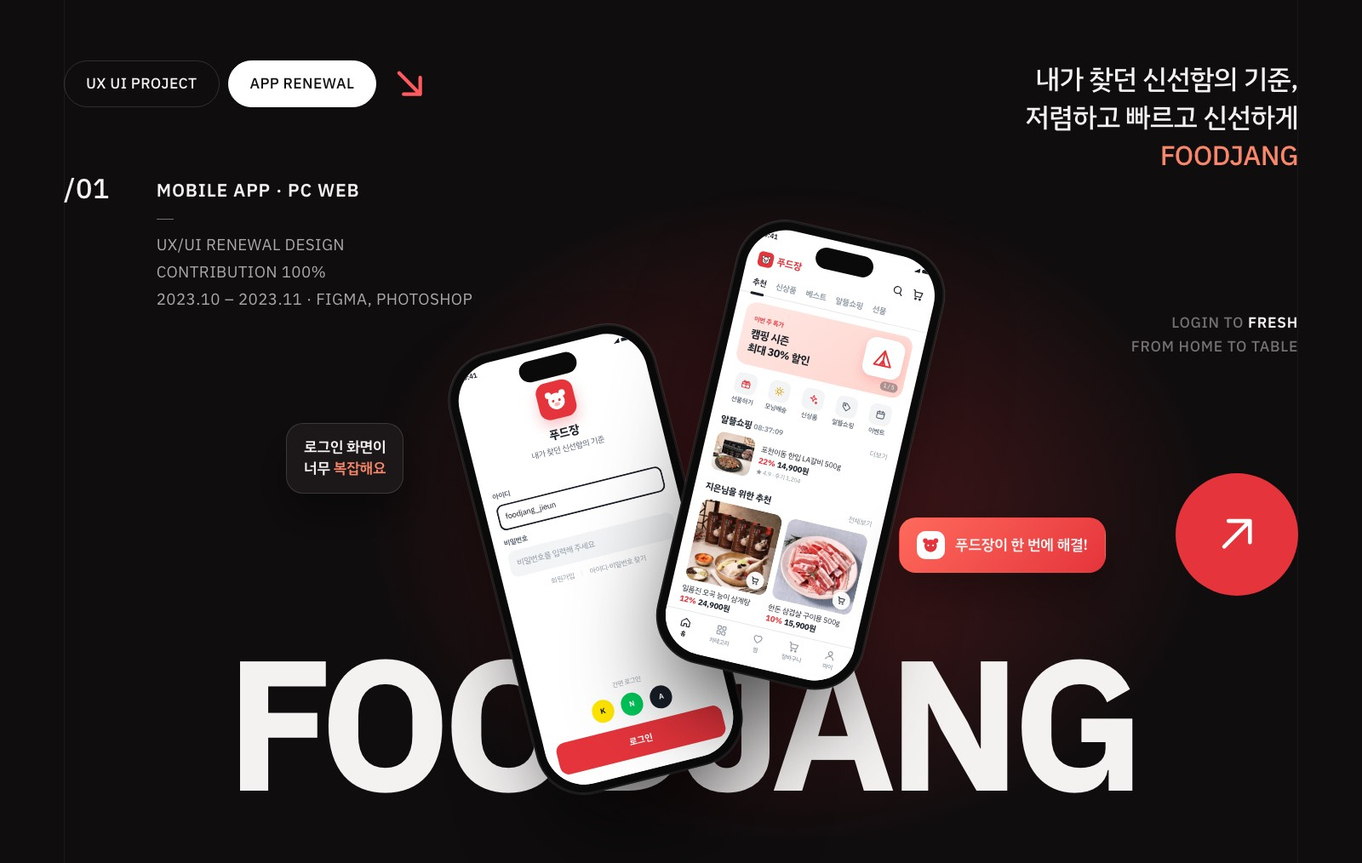
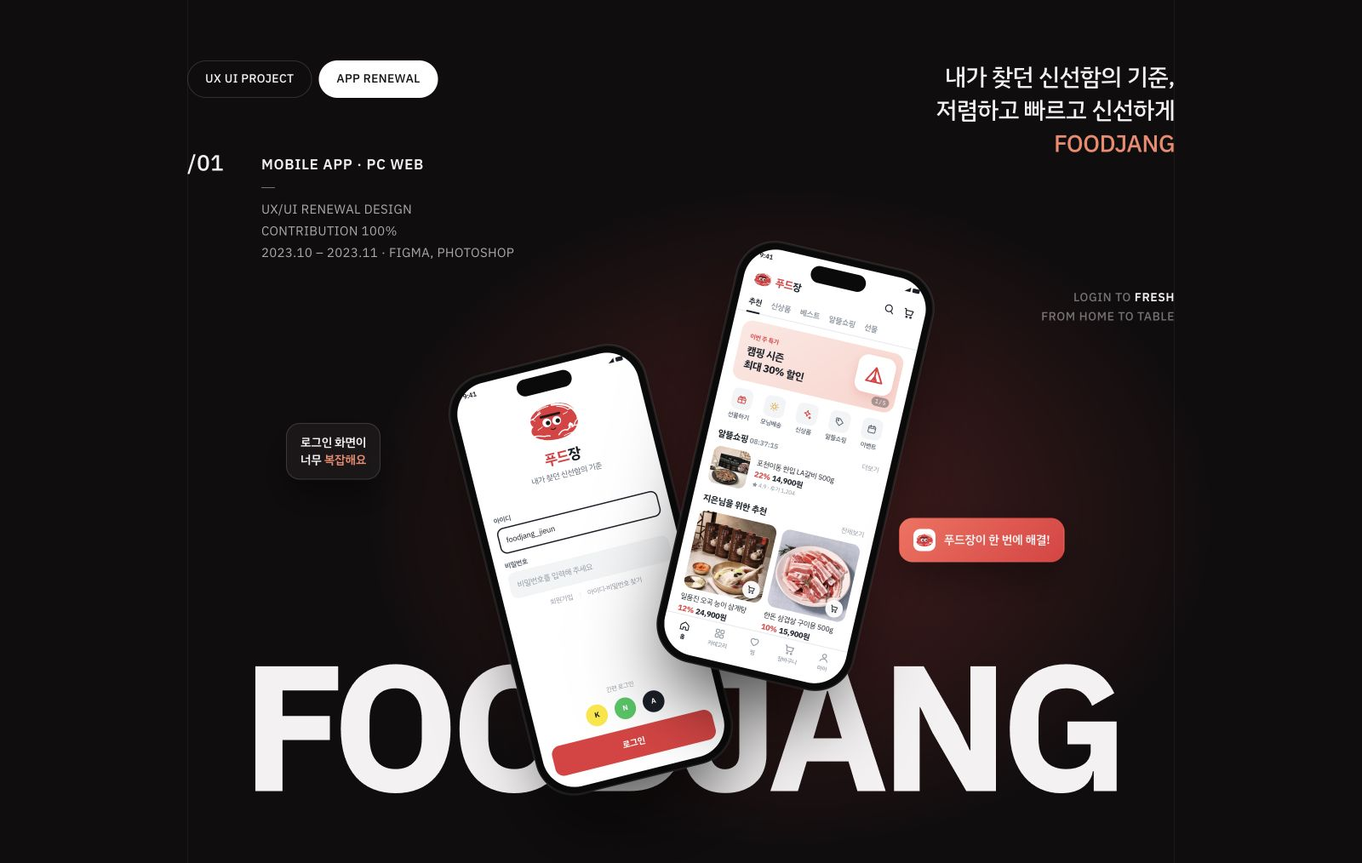
Update Foodjang case study, cover, and consistent spacing

diff --git a/works/foodjang/index.html b/works/foodjang/index.html
@@ -1,6 +1,4 @@
 <!doctype html><html lang="ko"><head><meta charset="utf-8"><meta name=viewport content="width=device-width,initial-scale=1,viewport-fit=cover"><style>:root{color-scheme:light;box-sizing:border-box;padding-top:env(safe-area-inset-top,0px);padding-bottom:env(safe-area-inset-bottom,0px)}html{scroll-padding-top:env(safe-area-inset-top,0px)}body{margin:0;padding:0;font:14px -apple-system,BlinkMacSystemFont,sans-serif;background:#fff;color:#000}img{max-width:100%}[hidden]:not([hidden=until-found i]){display:none!important}</style><title>FOODJANG 앱 리뉴얼 — 유미경</title></head><body>
-
-<meta name="claude:viewport-fit-sides" content="cover">
 <link rel="preconnect" href="https://fonts.googleapis.com">
 <link rel="preconnect" href="https://fonts.gstatic.com" crossorigin>
 <link rel="stylesheet" href="https://fonts.googleapis.com/css2?family=IBM+Plex+Sans+KR:wght@400;500;600;700&display=swap">
@@ -13,6 +11,7 @@
   --tx:#F5F2F2; --tx-2:rgba(245,242,242,.68); --tx-3:rgba(245,242,242,.44);
   --brand:#A3121A; --red:#E5343C; --red-2:#FF5A5F; --pink:#F4A6A0; --lpink:#FBE3E0; --yellow:#F7C548; --coral:#F7866A;
   --ink:#191F28; --ink-2:#4E5968; --ink-3:#8B95A1; --line:#E5E8EB; --fill:#F2F4F6; --paper:#FFFFFF; --rtint:#FFF0EF;
+  --section-space:clamp(96px,12vw,170px); --content-space:clamp(40px,5vw,56px); --card-gap:24px; --card-padding:clamp(24px,2.5vw,32px);
   --font:'IBM Plex Sans KR','Apple SD Gothic Neo','Malgun Gothic',sans-serif;
   color-scheme:dark;
 }
@@ -22,7 +21,7 @@ body{margin:0;background:var(--bg);color:var(--tx);font-family:var(--font);font-
 img,svg{max-width:100%}
 .wrap{max-width:1200px;margin:0 auto;padding-left:max(20px,env(safe-area-inset-left,0px));padding-right:max(20px,env(safe-area-inset-right,0px))}
 section{position:relative}
-.band{padding-block:clamp(96px,12vw,170px)}
+.band{padding-block:var(--section-space)}
 .eyebrow{display:inline-flex;align-items:center;gap:8px;font-weight:600;font-size:13px;letter-spacing:.14em;text-transform:uppercase;color:var(--coral)}
 .eyebrow:before{content:'';width:6px;height:6px;border-radius:50%;background:var(--red-2);box-shadow:0 0 12px var(--red-2)}
 .ttl{font-weight:700;font-size:clamp(28px,4.2vw,48px);line-height:1.3;letter-spacing:-.035em;margin:16px 0 18px;text-wrap:balance}
@@ -45,9 +44,9 @@ section{position:relative}
 .nav b{font-size:1.0625em;font-weight:700;white-space:nowrap}
 .nav .ic{display:flex;gap:.9em}
 .nav svg,.ico-s{width:1.5em;height:1.5em;stroke:var(--ink);fill:none;stroke-width:1.9;stroke-linecap:round;stroke-linejoin:round;flex:none}
-.logo{display:flex;align-items:center;gap:.4em;font-weight:700;font-size:1.125em;color:var(--red);white-space:nowrap}
-.logo .m{width:1.6em;height:1.6em;border-radius:.45em;background:var(--red);display:grid;place-items:center}
-.logo .m svg{width:1.1em;height:1.1em}
+.logo{display:flex;align-items:center;gap:.35em;font-weight:700;font-size:1.1875em;color:var(--ink);white-space:nowrap;letter-spacing:-.04em}
+.logo b{color:var(--red);font-weight:700}
+.logo .mk{width:1.9em;height:1.4em;flex:none}
 .body{flex:1;overflow:hidden;padding:0 1.25em;min-height:0}
 .h1{font-size:1.5em;font-weight:700;line-height:1.38;letter-spacing:-.035em;margin:.5em 0 .4em}
 .h1 em{font-style:normal;color:var(--red)}
@@ -103,8 +102,10 @@ section{position:relative}
 .links{display:flex;justify-content:center;gap:1em;font-size:.8125em;color:var(--ink-3);margin-top:1em;white-space:nowrap}
 .sns{display:flex;justify-content:center;gap:.9em;margin-top:.7em}
 .sns i{width:3em;height:3em;border-radius:50%;display:grid;place-items:center;font-style:normal;font-weight:700;font-size:.875em}
-.mascot{width:4.4em;height:4.4em;border-radius:1.25em;background:var(--red);display:grid;place-items:center;margin:1.6em auto .8em;box-shadow:0 .8em 1.6em rgba(229,52,60,.28)}
-.mascot svg{width:3em;height:3em}
+.mascot{display:flex;justify-content:center;margin:1.8em auto .7em}
+.mascot svg{width:6.6em;height:4.9em}
+.lgw{font-size:1.75em;font-weight:700;letter-spacing:-.05em;color:var(--ink)}
+.lgw b{color:var(--red);font-weight:700}
 .steps3{display:flex;flex-direction:column;gap:.15em;margin-top:1em}
 .steps3>div{display:flex;gap:.8em;align-items:center;padding:.6em 0}
 .steps3 i{width:1.9em;height:1.9em;border-radius:50%;background:var(--rtint);color:var(--red);font-style:normal;font-weight:700;font-size:.8125em;display:grid;place-items:center;flex:none}
@@ -146,7 +147,6 @@ section{position:relative}
 .pills{display:flex;align-items:center;gap:8px}
 .pills span{height:44px;padding:0 20px;border-radius:999px;border:1px solid var(--stroke-2);display:inline-flex;align-items:center;font-size:14px;font-weight:500;letter-spacing:.02em;white-space:nowrap}
 .pills span.w{background:#fff;color:#111;border-color:#fff}
-.pills svg{width:34px;height:34px;stroke:var(--red-2);fill:none;stroke-width:2.4;stroke-linecap:round;stroke-linejoin:round;margin-left:6px}
 .hmeta{display:grid;grid-template-columns:auto 1fr;gap:4px 44px;margin-top:64px;font-size:15px;color:var(--tx-2);letter-spacing:.02em}
 .hmeta .n{font-size:26px;font-weight:500;color:var(--tx);line-height:1}
 .hmeta b{font-weight:600;color:var(--tx);display:block;font-size:17px;letter-spacing:.04em}
@@ -166,39 +166,39 @@ section{position:relative}
 .bub em{font-style:normal;color:var(--coral)}
 .bub.sol{background:linear-gradient(135deg,#FF6A5C,#E5343C);border-color:transparent;display:flex;align-items:center;gap:10px}
 .bub.sol i{width:26px;height:26px;border-radius:8px;background:#fff;display:grid;place-items:center}
-.bub.sol i svg{width:18px;height:18px}
+.bub.sol i svg{width:22px;height:16px}
 .b1{left:21%;top:49%}.b4{left:66%;top:60%}
 
 /* ================= OVERVIEW ================= */
 .ov{background:linear-gradient(180deg,var(--bg),var(--bg-2))}
-.ov .q{display:flex;justify-content:center;gap:12px;flex-wrap:wrap;margin-top:56px}
+.ov .q{display:flex;justify-content:center;gap:12px;flex-wrap:wrap;margin-top:var(--content-space)}
 .ov .q span{font-size:14px;font-weight:600;padding:10px 16px;border-radius:999px;background:var(--card);border:1px solid var(--stroke);color:var(--tx-2)}
 .ov .q span em{font-style:normal;color:var(--coral)}
 
 /* ================= RESEARCH ================= */
-.rs-grid{display:grid;grid-template-columns:repeat(3,minmax(0,1fr)) minmax(0,1.25fr);gap:16px;margin-top:56px}
-.tg{padding:32px 28px;display:flex;flex-direction:column;gap:16px;min-width:0}
+.rs-grid{display:grid;grid-template-columns:repeat(3,minmax(0,1fr)) minmax(0,1.25fr);gap:var(--card-gap);margin-top:var(--content-space)}
+.tg{padding:var(--card-padding);display:flex;flex-direction:column;gap:20px;min-width:0}
 .tg .n{font-size:12px;font-weight:600;letter-spacing:.12em;color:var(--coral)}
 .tg .av{width:48px;height:48px;border-radius:16px;background:rgba(247,134,106,.12);display:grid;place-items:center}
 .tg .av svg{width:26px;height:26px;stroke:var(--coral);fill:none;stroke-width:1.8;stroke-linecap:round;stroke-linejoin:round}
 .tg h3{font-size:20px;line-height:1.4;font-weight:700;margin:0;letter-spacing:-.03em}
 .tg p{margin:0;font-size:14.5px;color:var(--tx-2);line-height:1.7}
-.chart{padding:32px 28px;background:#F8F6F6;color:var(--ink);border-radius:24px;min-width:0}
-.chart h4{margin:0 0 4px;font-size:16px;font-weight:700}
-.chart .s{font-size:13px;color:var(--ink-3);margin:0 0 20px}
-.bars{display:flex;flex-direction:column;gap:14px}
+.chart{padding:var(--card-padding);background:#F8F6F6;color:var(--ink);border-radius:24px;min-width:0}
+.chart h4{margin:0 0 8px;font-size:16px;font-weight:700}
+.chart .s{font-size:13px;color:var(--ink-3);margin:0 0 24px}
+.bars{display:flex;flex-direction:column;gap:16px}
 .bars div{display:grid;grid-template-columns:40px minmax(0,1fr) 44px;align-items:center;gap:12px;font-size:14px}
 .bars .tr{height:12px;border-radius:9px;background:#ECE7E7;overflow:hidden}
 .bars .tr i{display:block;height:100%;border-radius:9px;background:var(--coral)}
 .bars div:first-child .tr i{background:var(--red)}
 .bars b{text-align:right;font-weight:700}
-.kw{display:flex;flex-wrap:wrap;gap:8px;margin-top:22px}
+.kw{display:flex;flex-wrap:wrap;gap:8px;margin-top:24px}
 .kw span{font-size:13px;font-weight:600;padding:6px 12px;border-radius:999px;background:#FFE3E0;color:var(--red)}
 .kw span.n{background:#ECEEF1;color:var(--ink-2)}
 
 /* ================= PROCESS ================= */
 .proc{background:var(--bg-2)}
-.pc-row{display:grid;grid-template-columns:repeat(4,minmax(0,1fr));gap:16px;margin-top:56px;position:relative}
+.pc-row{display:grid;grid-template-columns:repeat(4,minmax(0,1fr));gap:var(--card-gap);margin-top:var(--content-space);position:relative}
 .pc-row:before{content:'';position:absolute;left:24px;right:24px;top:27px;height:2px;background:linear-gradient(90deg,var(--red),rgba(229,52,60,.15))}
 .pcs{position:relative;min-width:0}
 .pcs .dot{width:56px;height:56px;border-radius:50%;display:grid;place-items:center;font-weight:700;font-size:15px;background:var(--card-2);border:1px solid var(--stroke-2);position:relative;z-index:1}
@@ -208,12 +208,12 @@ section{position:relative}
 .pcs ul{margin:0;padding:0;list-style:none;display:flex;flex-direction:column;gap:8px}
 .pcs li{font-size:14.5px;color:var(--tx-2);padding-left:14px;position:relative}
 .pcs li:before{content:'';position:absolute;left:0;top:.75em;width:5px;height:5px;border-radius:50%;background:var(--coral)}
-.goal{margin-top:56px;display:flex;align-items:center;gap:18px;padding:22px 26px;flex-wrap:wrap}
+.goal{margin-top:var(--content-space);display:flex;align-items:center;gap:18px;padding:22px 26px;flex-wrap:wrap}
 .goal span{font-size:12px;font-weight:700;letter-spacing:.14em;color:#fff;background:var(--red);border-radius:999px;padding:6px 12px}
 .goal b{font-size:clamp(17px,2vw,22px);font-weight:700;letter-spacing:-.02em}
 
 /* ================= PAIN → SOLUTION ================= */
-.pp-grid{display:grid;grid-template-columns:repeat(3,minmax(0,1fr));gap:16px;margin-top:56px}
+.pp-grid{display:grid;grid-template-columns:repeat(3,minmax(0,1fr));gap:var(--card-gap);margin-top:var(--content-space)}
 .pp{display:flex;flex-direction:column;gap:12px;min-width:0}
 .pp .a{padding:26px 24px}
 .pp .a small,.pp .b small{font-size:12px;font-weight:600;letter-spacing:.1em;text-transform:uppercase}
@@ -221,7 +221,7 @@ section{position:relative}
 .pp .a h3,.pp .b h3{margin:10px 0 0;font-size:19px;line-height:1.45;font-weight:700;letter-spacing:-.025em}
 .pp .ar{align-self:center;width:36px;height:36px;border-radius:50%;background:var(--card-2);display:grid;place-items:center;border:1px solid var(--stroke)}
 .pp .ar svg{width:18px;height:18px;stroke:var(--coral);fill:none;stroke-width:2.2;stroke-linecap:round;stroke-linejoin:round}
-.pp .b{padding:26px 24px;border-radius:24px;background:linear-gradient(140deg,#FF8A72,#E5343C);color:#fff;box-shadow:0 24px 48px -18px rgba(229,52,60,.55)}
+.pp .b{flex:1;padding:26px 24px;border-radius:24px;background:linear-gradient(140deg,#FF8A72,#E5343C);color:#fff;box-shadow:0 24px 48px -18px rgba(229,52,60,.55)}
 .pp .b small{color:rgba(255,255,255,.8)}
 .pp .b p{margin:8px 0 0;font-size:14.5px;line-height:1.7;color:rgba(255,255,255,.88)}
 
@@ -236,8 +236,8 @@ section{position:relative}
 
 /* ================= CONCEPT ================= */
 .cc{background:var(--bg-2)}
-.cc-grid{display:grid;grid-template-columns:repeat(3,minmax(0,1fr));gap:16px;margin-top:56px}
-.ccc{padding:34px 28px 30px;border-radius:28px;min-width:0;position:relative;overflow:hidden;min-height:280px;display:flex;flex-direction:column}
+.cc-grid{display:grid;grid-template-columns:repeat(3,minmax(0,1fr));gap:var(--card-gap);margin-top:var(--content-space)}
+.ccc{padding:var(--card-padding);border-radius:28px;min-width:0;position:relative;overflow:hidden;min-height:280px;display:flex;flex-direction:column}
 .ccc:nth-child(1){background:linear-gradient(150deg,#FFB39E,#F7866A)}
 .ccc:nth-child(2){background:linear-gradient(150deg,#FF8E7A,#E5343C)}
 .ccc:nth-child(3){background:linear-gradient(150deg,#D63A3F,#8E0F17)}
@@ -281,7 +281,7 @@ section{position:relative}
 .mini2 b{display:block;font-size:16px;margin-bottom:6px}
 .mini2 p{margin:0;font-size:14px;color:var(--tx-2);line-height:1.65}
 
-.svc{display:grid;grid-template-columns:repeat(3,minmax(0,1fr));gap:clamp(18px,3vw,40px);margin-top:56px;justify-items:center}
+.svc{display:grid;grid-template-columns:repeat(3,minmax(0,1fr));gap:clamp(18px,3vw,40px);margin-top:var(--content-space);justify-items:center}
 .svc .col{display:flex;flex-direction:column;align-items:center;gap:22px;width:100%;min-width:0}
 .svc .pill{font-size:13px;font-weight:700;padding:7px 14px;border-radius:999px;background:rgba(229,52,60,.16);color:var(--red-2);white-space:nowrap}
 .svc .dev{max-width:270px}
@@ -295,7 +295,7 @@ section{position:relative}
 .lg .devwrap{position:relative;display:flex;justify-content:center;padding-block:40px}
 
 /* PC */
-.pcw{margin-top:56px;display:grid;grid-template-columns:minmax(0,1fr) 300px;gap:28px;align-items:start}
+.pcw{margin-top:var(--content-space);display:grid;grid-template-columns:minmax(0,1fr) 300px;gap:28px;align-items:start}
 .browser{border-radius:18px;overflow:hidden;background:#fff;box-shadow:0 50px 100px -30px rgba(0,0,0,.8),0 0 0 1px rgba(255,255,255,.1)}
 .browser .bar{height:38px;background:#2A2526;display:flex;align-items:center;gap:7px;padding:0 14px;position:relative}
 .browser .bar i{width:11px;height:11px;border-radius:50%;background:#4A4344;display:block}
@@ -342,8 +342,16 @@ section{position:relative}
 
 /* ================= DESIGN SYSTEM ================= */
 .ds{background:var(--bg-2)}
-.ds-grid{display:grid;grid-template-columns:minmax(0,1.3fr) minmax(0,1fr);gap:16px;margin-top:56px}
-.ds-card{padding:28px}
+.lg-grid{display:grid;grid-template-columns:repeat(3,minmax(0,1fr));gap:var(--card-gap);margin-top:var(--content-space)}
+.lgc{position:relative;border-radius:24px;aspect-ratio:1/1;display:grid;place-items:center;overflow:hidden;border:1px solid var(--stroke)}
+.lgc img{width:78%;max-width:100%}
+.lgc img.ic{width:48%;border-radius:22%;box-shadow:0 24px 48px -16px rgba(0,0,0,.45)}
+.lgc span{position:absolute;left:20px;bottom:16px;font-size:12px;font-weight:600;letter-spacing:.1em;text-transform:uppercase}
+.lgc.w{background:#fff}.lgc.w span{color:#8B95A1}
+.lgc.d{background:#141112}.lgc.d span{color:var(--tx-3)}
+.lgc.r{background:var(--red)}.lgc.r span{color:rgba(255,255,255,.8)}
+.ds-grid{display:grid;grid-template-columns:minmax(0,1.3fr) minmax(0,1fr);gap:var(--card-gap);margin-top:var(--content-space)}
+.ds-card{padding:var(--card-padding)}
 .ds-card h4{margin:0 0 20px;font-size:15px;font-weight:600;color:var(--tx-2);display:flex;justify-content:space-between;gap:12px}
 .ds-card h4 em{font-style:normal;color:var(--coral)}
 .sws{display:grid;grid-template-columns:repeat(4,minmax(0,1fr));gap:10px}
@@ -352,7 +360,7 @@ section{position:relative}
 .ty div{display:grid;grid-template-columns:96px minmax(0,1fr);align-items:baseline;padding:12px 0;border-top:1px solid var(--stroke);gap:12px}
 .ty div:first-child{border-top:0;padding-top:0}
 .ty span{font-size:12.5px;color:var(--tx-3)}
-.cmps{margin-top:16px;display:grid;grid-template-columns:repeat(3,minmax(0,1fr));gap:16px}
+.cmps{margin-top:var(--card-gap);display:grid;grid-template-columns:repeat(3,minmax(0,1fr));gap:var(--card-gap)}
 .cmps .ds-card{display:flex;flex-direction:column;gap:12px;align-items:flex-start}
 .cbtn{display:inline-flex;align-items:center;justify-content:center;height:56px;padding:0 28px;border-radius:16px;font-size:17px;font-weight:700;white-space:nowrap;width:100%}
 .cbtn.p{background:var(--red);color:#fff}.cbtn.s{background:rgba(229,52,60,.14);color:var(--red-2)}
@@ -364,12 +372,12 @@ section{position:relative}
 .spec{font-size:12.5px;color:var(--tx-3)}
 
 /* ================= RESULT ================= */
-.rl{margin-top:56px;border-top:1px solid var(--stroke)}
+.rl{margin-top:var(--content-space);border-top:1px solid var(--stroke)}
 .rl div{display:grid;grid-template-columns:120px minmax(0,1fr);gap:20px;padding:20px 4px;border-bottom:1px solid var(--stroke);align-items:center}
 .rl span{font-size:13px;font-weight:600;letter-spacing:.1em;color:var(--coral);text-transform:uppercase}
 .rl b{font-size:17px;font-weight:600}
-.qa{display:grid;grid-template-columns:repeat(2,minmax(0,1fr));gap:16px;margin-top:56px}
-.qa .glass{padding:30px 28px}
+.qa{display:grid;grid-template-columns:repeat(2,minmax(0,1fr));gap:var(--card-gap);margin-top:var(--content-space)}
+.qa .glass{padding:var(--card-padding)}
 .qa h4{margin:0 0 12px;font-size:18px;font-weight:700}
 .qa h4 em{font-style:normal;color:var(--coral);margin-right:6px}
 .qa p{margin:0;color:var(--tx-2);font-size:15.5px;line-height:1.8}
@@ -378,6 +386,9 @@ section{position:relative}
 .end p{color:var(--tx-3);font-size:14px;margin:18px 0 0}
 
 /* ================= RESPONSIVE ================= */
+@media (max-width:1180px){
+  .rs-grid{grid-template-columns:repeat(2,minmax(0,1fr))}
+}
 @media (max-width:1080px){
   .rs-grid{grid-template-columns:repeat(2,minmax(0,1fr))}
   .pcw{grid-template-columns:minmax(0,1fr)}
@@ -388,7 +399,7 @@ section{position:relative}
   .ft .lay.rev .txt{order:0}
   .pc-row{grid-template-columns:repeat(2,minmax(0,1fr));row-gap:40px}
   .pc-row:before{display:none}
-  .pp-grid,.cc-grid,.svc,.qa,.ds-grid,.cmps{grid-template-columns:minmax(0,1fr)}
+  .pp-grid,.cc-grid,.svc,.qa,.ds-grid,.cmps,.lg-grid{grid-template-columns:minmax(0,1fr)}
   .svc{gap:64px}
   .pcnotes{grid-template-columns:minmax(0,1fr)}
   .bub,.bub.sol{display:none}
@@ -403,10 +414,12 @@ section{position:relative}
   .hstage .p2{left:calc(50% - 5px);bottom:140px}
   .hcirc{display:none}
   .sheet{position:relative;inset:auto!important;margin:20px auto 0;width:100%;max-width:300px}
+  .cmpstage{padding-right:0}
   .cmpstage .wrapdev.o{display:none}.cmpstage .arr{display:none}
   .ccc{min-height:220px}
 }
 @media (max-width:560px){
+  :root{--card-gap:20px}
   .rs-grid{grid-template-columns:minmax(0,1fr)}
   .pc-row{grid-template-columns:minmax(0,1fr)}
   .ps-h{display:none}
@@ -421,6 +434,7 @@ section{position:relative}
 
 <!-- ============ ICONS ============ -->
 <svg width="0" height="0" style="position:absolute" aria-hidden="true">
+  <symbol id="i-mark" viewBox="-4 -2 248 174"><g><path d="M34 34 C70 4 140 -4 186 16 C226 34 240 78 226 114 C212 150 170 170 120 168 C76 166 36 156 16 128 C4 110 12 96 24 88 C10 76 14 50 34 34 Z" fill="#E5343C"/><clipPath id="cut00100"><path d="M34 34 C70 4 140 -4 186 16 C226 34 240 78 226 114 C212 150 170 170 120 168 C76 166 36 156 16 128 C4 110 12 96 24 88 C10 76 14 50 34 34 Z"/></clipPath><g clip-path="url(#cut00100)" fill="none" stroke="#FFFFFF" stroke-linecap="round" stroke-linejoin="round"><path d="M128 10 C172 12 208 30 224 62 C230 76 232 88 230 98" stroke-width="9"/><path d="M60 22 C78 14 96 12 112 12" stroke-width="4"/><path d="M40 108 C50 100 58 104 64 96" stroke-width="3"/><path d="M168 64 C176 60 186 62 192 56" stroke-width="3"/><path d="M150 22 C170 26 186 36 196 48 M196 48 C204 44 210 46 216 50" stroke-width="4"/><path d="M0 60 C18 52 30 58 44 46 C52 40 60 40 70 34" stroke-width="5"/><path d="M30 56 L38 64 M52 42 C56 34 62 30 70 28" stroke-width="3"/><path d="M244 96 C226 98 214 108 208 120" stroke-width="5"/><path d="M-4 136 C20 126 40 134 58 140 C70 144 80 140 88 146" stroke-width="5.5"/><path d="M18 150 C34 146 46 152 60 160" stroke-width="3"/><path d="M128 150 C146 132 160 132 172 138 C186 126 204 120 240 130" stroke-width="5.5"/><path d="M150 160 C168 152 190 156 206 150" stroke-width="3"/></g><path d="M180 133 L180 116 L191 106 L202 116 L202 131 Z" fill="#FFFFFF"/><path d="M187 132 L187 122 L195 122 L195 131 Z" fill="#E5343C"/><path d="M187 122 L195 131 M195 122 L187 131" stroke="#FFFFFF" stroke-width="1.6"/><rect x="62" y="48" width="96" height="11" rx="5.5" fill="#191919"/><circle cx="88" cy="84" r="20" fill="#FFFFFF"/><circle cx="134" cy="84" r="20" fill="#FFFFFF"/><circle cx="93" cy="86" r="10" fill="#191919"/><circle cx="139" cy="86" r="10" fill="#191919"/><path d="M100 116 Q111 124 122 116" fill="none" stroke="#191919" stroke-width="4.2" stroke-linecap="round"/></g></symbol>
   <symbol id="i-face" viewBox="0 0 40 40"><circle cx="20" cy="22" r="13" fill="#fff"/><circle cx="9" cy="11" r="5" fill="#fff"/><circle cx="31" cy="11" r="5" fill="#fff"/><circle cx="15" cy="21" r="2" fill="#E5343C"/><circle cx="25" cy="21" r="2" fill="#E5343C"/><ellipse cx="20" cy="27" rx="4.5" ry="3" fill="#FFB3AE"/></symbol>
   <symbol id="i-back" viewBox="0 0 24 24"><path d="M15 5l-7 7 7 7"/></symbol>
   <symbol id="i-search" viewBox="0 0 24 24"><circle cx="11" cy="11" r="6.5"/><path d="M16 16l4 4"/></symbol>
@@ -454,8 +468,8 @@ section{position:relative}
   <div class="app">
     <div class="sb"><span>9:41</span><span class="dots"><i></i><i></i></span></div>
     <div class="body" style="display:flex;flex-direction:column">
-      <div class="mascot"><svg><use href="#i-face"/></svg></div>
-      <div style="text-align:center"><b style="font-size:1.375em;font-weight:700">푸드장</b><p class="sub" style="margin-top:.2em">내가 찾던 신선함의 기준</p></div>
+      <div class="mascot"><svg><use href="#i-mark"/></svg></div>
+      <div style="text-align:center"><span class="lgw"><b>푸드</b>장</span><p class="sub" style="margin-top:.2em">내가 찾던 신선함의 기준</p></div>
       <div style="margin-top:1.4em">
         <div class="input"><label>아이디</label><div class="on">foodjang_jieun</div></div>
         <div class="input"><label>비밀번호</label><div>비밀번호를 입력해 주세요</div></div>
@@ -473,7 +487,7 @@ section{position:relative}
 <template id="t-home">
   <div class="app">
     <div class="sb"><span>9:41</span><span class="dots"><i></i><i></i></span></div>
-    <div class="nav"><span class="logo"><span class="m"><svg><use href="#i-face"/></svg></span>푸드장</span><span class="ic"><svg><use href="#i-search"/></svg><svg><use href="#i-cart"/></svg></span></div>
+    <div class="nav"><span class="logo"><svg class="mk"><use href="#i-mark"/></svg><span><b>푸드</b>장</span></span><span class="ic"><svg><use href="#i-search"/></svg><svg><use href="#i-cart"/></svg></span></div>
     <div class="tabs"><span class="on">추천</span><span>신상품</span><span>베스트</span><span>알뜰쇼핑</span><span>선물</span></div>
     <div class="body">
       <div class="banner"><small>이번 주 특가</small><b>캠핑 시즌<br>최대 30% 할인</b><span class="ill"><svg><use href="#i-tent"/></svg></span><span class="pg">1 / 5</span></div>
@@ -595,7 +609,7 @@ section{position:relative}
 <section class="hero" id="top">
   <div class="wrap htop">
     <div class="hl h-in">
-      <div class="pills"><span>UX UI PROJECT</span><span class="w">APP RENEWAL</span><svg viewBox="0 0 24 24"><path d="M5 5l14 14M19 8v11H8"/></svg></div>
+      <div class="pills"><span>UX UI PROJECT</span><span class="w">APP RENEWAL</span></div>
       <div class="hmeta"><span class="n">/01</span><div><b>MOBILE APP · PC WEB</b><i></i>UX/UI RENEWAL DESIGN<br>CONTRIBUTION 100%<br>2023.10 – 2023.11 · FIGMA, PHOTOSHOP</div></div>
     </div>
     <div class="hr h-in">내가 찾던 신선함의 기준,<br>저렴하고 빠르고 신선하게<em>FOODJANG</em><small>LOGIN TO <b>FRESH</b><br>FROM HOME TO TABLE</small></div>
@@ -605,8 +619,7 @@ section{position:relative}
     <div class="dev p1"><div class="scr" data-t="t-login"></div></div>
     <div class="dev p2"><div class="scr" data-t="t-home"></div></div>
     <div class="bub b1">로그인 화면이<br>너무 <em>복잡해요</em></div>
-    <div class="bub sol b4"><i><svg viewBox="0 0 40 40"><circle cx="20" cy="22" r="13" fill="#E5343C"/><circle cx="9" cy="11" r="5" fill="#E5343C"/><circle cx="31" cy="11" r="5" fill="#E5343C"/><circle cx="15" cy="21" r="2" fill="#fff"/><circle cx="25" cy="21" r="2" fill="#fff"/></svg></i>푸드장이 한 번에 해결!</div>
-    <span class="hcirc"><svg viewBox="0 0 24 24"><path d="M6 18L18 6M8 6h10v10"/></svg></span>
+    <div class="bub sol b4"><i><svg viewBox="-4 -2 248 174"><use href="#i-mark"/></svg></i>푸드장이 한 번에 해결!</div>
   </div>
 </section>
 
@@ -621,7 +634,7 @@ section{position:relative}
 </section>
 
 <!-- ================= RESEARCH ================= -->
-<section class="rs band">
+<section class="rs band" id="target-brand">
   <div class="wrap">
     <span class="eyebrow">Target &amp; Brand</span>
     <h2 class="ttl">누가, 언제 푸드장을 찾을까요?</h2>
@@ -804,7 +817,7 @@ section{position:relative}
         <div class="bar"><i></i><i></i><i></i><span>foodjang.com</span></div>
         <div class="pcs-c"><div class="pca">
           <div class="promo">신규회원 첫 구매 무료배송 · 지금 가입하고 10,000원 쿠폰 받기</div>
-          <div class="hd"><span class="logo"><span class="m"><svg><use href="#i-face"/></svg></span>푸드장</span><span class="srch"><svg viewBox="0 0 24 24"><use href="#i-search"/></svg>캠핑 고기 세트 찾고 계신가요?</span><span class="ic"><svg viewBox="0 0 24 24"><use href="#i-user"/></svg><svg viewBox="0 0 24 24"><use href="#i-heart"/></svg><svg viewBox="0 0 24 24"><use href="#i-cart"/></svg></span></div>
+          <div class="hd"><span class="logo"><svg class="mk"><use href="#i-mark"/></svg><span><b>푸드</b>장</span></span><span class="srch"><svg viewBox="0 0 24 24"><use href="#i-search"/></svg>캠핑 고기 세트 찾고 계신가요?</span><span class="ic"><svg viewBox="0 0 24 24"><use href="#i-user"/></svg><svg viewBox="0 0 24 24"><use href="#i-heart"/></svg><svg viewBox="0 0 24 24"><use href="#i-cart"/></svg></span></div>
           <div class="mn"><span>전체 카테고리</span><span class="on">선물세트</span><span>신상품</span><span>베스트</span><span>알뜰쇼핑</span><span>모닝배송</span><span>이벤트</span><span class="r">모닝배송 지역 확인</span></div>
           <div class="hb"><div><small>WELCOME</small><h5>푸드장이 처음이라면?<br>신규회원 혜택받고 구매하세요</h5><span class="b">혜택받고 구매하기</span></div><div class="cp"><small>WELCOME COUPON</small><b>10,000원</b><span>첫 구매 시 바로 사용</span></div></div>
           <div class="qk">
@@ -837,7 +850,12 @@ section{position:relative}
 <section class="ds band">
   <div class="wrap">
     <span class="eyebrow">Design System</span>
-    <h2 class="ttl">신선함을 담은 컬러, 하나의 서체</h2>
+    <h2 class="ttl">마블링 캐릭터 로고와<br>신선함을 담은 컬러, 하나의 서체</h2>
+    <div class="lg-grid">
+      <div class="lgc w"><img src="img/logo.svg" alt="푸드장 로고"><span>Primary · Light</span></div>
+      <div class="lgc d"><img src="img/logo_dark.svg" alt="푸드장 로고 다크"><span>Primary · Dark</span></div>
+      <div class="lgc r"><img src="img/appicon.svg" alt="푸드장 앱 아이콘" class="ic"><span>App Icon</span></div>
+    </div>
     <div class="ds-grid">
       <div class="ds-card glass"><h4>Color</h4>
         <div class="sws">
@@ -905,7 +923,6 @@ document.querySelectorAll('.scr[data-t]').forEach(function(s){
   gsap.registerPlugin(ScrollTrigger);
   gsap.from('.h-in',{y:50,duration:1.1,ease:'power3.out',stagger:.12});
   gsap.from('.hstage .dev',{y:220,duration:1.3,ease:'power3.out',stagger:.15,delay:.2});
-  gsap.from('.hcirc',{scale:0,duration:.9,ease:'back.out(1.6)',delay:.9});
   gsap.from('.bub',{scale:.85,y:20,duration:.8,ease:'back.out(1.8)',stagger:.12,delay:.8});
   gsap.to('.bub',{y:'-=10',duration:2.6,repeat:-1,yoyo:true,ease:'sine.inOut',stagger:.3,delay:1.8});
   gsap.from('.word',{yPercent:60,duration:1.2,ease:'power3.out'});

diff --git a/js/data.js b/js/data.js
@@ -50,7 +50,7 @@ const CATEGORIES = {
 };
 
 // 이미지를 교체하면 IMG_VERSION을 바꿔주세요. 브라우저가 예전 이미지를 다시 쓰지 않게 합니다.
-const IMG_VERSION = "20261017c";
+const IMG_VERSION = "20261017d";
 const shots = (id, n) =>
   Array.from({ length: n }, (_, i) => `assets/works/${id}/${String(i + 1).padStart(2, "0")}.jpg?v=${IMG_VERSION}`);
 

diff --git a/index.html b/index.html
@@ -72,7 +72,7 @@
 
   <footer class="wrap footer">© <span data-year></span> <span data-name-en></span></footer>
 
-  <script src="js/data.js?v=foodjang-20261017c"></script>
-  <script src="js/main.js?v=foodjang-20261017c"></script>
+  <script src="js/data.js?v=foodjang-20261017d"></script>
+  <script src="js/main.js?v=foodjang-20261017d"></script>
 </body>
 </html>

diff --git a/project.html b/project.html
@@ -32,7 +32,7 @@
 
   <footer class="wrap footer">© <span data-year></span> <span data-name-en></span></footer>
 
-  <script src="js/data.js?v=foodjang-20261017c"></script>
-  <script src="js/main.js?v=foodjang-20261017c"></script>
+  <script src="js/data.js?v=foodjang-20261017d"></script>
+  <script src="js/main.js?v=foodjang-20261017d"></script>
 </body>
 </html>
